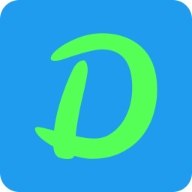
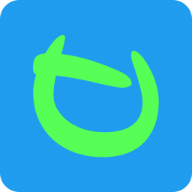
prueba

Changed region(s): [[0.1562, 0.1562, 0.8438, 0.8438]]

diff --git a/quien_soy.html b/quien_soy.html
@@ -7,7 +7,7 @@
     <meta name="viewport" content="width=device-width, user-scalable=no, initial-scale=1.0, maximum-scale=1.0, minimum-scale=1.0">
     <meta name="apple-mobile-web-app-capable" content="yes">
     <!-- favicon -->
-    <link rel="shortcut icon" type="image/x-icon" href="favicon.ico">
+    <link rel="shortcut icon" type="image/x-icon" href="img/android-chrome-512x512.png">
     <link rel="canonical" href="/">
     <title>
       Daniel Iván Romero Méndez 
@@ -146,10 +146,10 @@
               <p>Respeto</p>
             </div>
             <div class="valor_corp visible-md visible-lg hidden-xs hidden-sm">
-              <p>Soy una persona que considera el respeto fundamental y que sin él cualquier contacto entre personas es inservible. Sin respeto no puede haber una simbiosis entre dos partes saludable y provechosa, el resultado de cualquier manera es desfavorable.</p>
+              <p>Soy una persona que considera el respeto fundamental y que sin él cualquier contacto entre personas es inservible.</p>
             </div>
             <div class="valor_corp1 visible-xs visible-sm hidden-md hidden-lg">
-              <p>Soy una persona que considera el respeto fundamental y que sin él cualquier contacto entre personas es inservible. Sin respeto no puede haber una simbiosis entre dos partes saludable y provechosa, el resultado de cualquier manera es desfavorable.</p>
+              <p>Soy una persona que considera el respeto fundamental y que sin él cualquier contacto entre personas es inservible.</p>
             </div>
             <div class="titulo_valor_corp visible-md visible-lg hidden-xs hidden-sm">
               <p>Solidaridad</p>

diff --git a/ingenieria_de_sistemas.html b/ingenieria_de_sistemas.html
@@ -7,7 +7,7 @@
     <meta name="viewport" content="width=device-width, user-scalable=no, initial-scale=1.0, maximum-scale=1.0, minimum-scale=1.0">
     <meta name="apple-mobile-web-app-capable" content="yes">
     <!-- favicon -->
-    <link rel="shortcut icon" type="image/x-icon" href="favicon.ico">
+    <link rel="shortcut icon" type="image/x-icon" href="img/android-chrome-512x512.png">
     <link rel="canonical" href="/">
     <title>
       Daniel Iván Romero Méndez 

diff --git a/ingenieria_industrial.html b/ingenieria_industrial.html
@@ -7,7 +7,7 @@
     <meta name="viewport" content="width=device-width, user-scalable=no, initial-scale=1.0, maximum-scale=1.0, minimum-scale=1.0">
     <meta name="apple-mobile-web-app-capable" content="yes">
     <!-- favicon -->
-    <link rel="shortcut icon" type="image/x-icon" href="favicon.ico">
+    <link rel="shortcut icon" type="image/x-icon" href="img/android-chrome-512x512.png">
     <link rel="canonical" href="/">
     <title>
       Daniel Iván Romero Méndez 

diff --git a/proyectos.html b/proyectos.html
@@ -7,7 +7,7 @@
     <meta name="viewport" content="width=device-width, user-scalable=no, initial-scale=1.0, maximum-scale=1.0, minimum-scale=1.0">
     <meta name="apple-mobile-web-app-capable" content="yes">
     <!-- favicon -->
-    <link rel="shortcut icon" type="image/x-icon" href="favicon.ico">
+    <link rel="shortcut icon" type="image/x-icon" href="img/android-chrome-512x512.png">
     <link rel="canonical" href="/">
     <title>
       Daniel Iván Romero Méndez	

diff --git a/index.html b/index.html
@@ -8,7 +8,7 @@
 	<meta name="viewport" content="width=device-width, user-scalable=no, initial-scale=1.0, maximum-scale=1.0, minimum-scale=1.0">
 	<meta name="apple-mobile-web-app-capable" content="yes">
 	<!-- favicon -->
-	<link rel="shortcut icon" type="image/x-icon" href="favicon.ico">
+	<link rel="shortcut icon" type="image/x-icon" href="img/android-chrome-512x512.png">
 	<link rel="canonical" href="/">
 	<title>
 		Daniel Iván Romero Méndez

diff --git a/README.md b/README.md
@@ -13,7 +13,7 @@ Node js, javascript, lately up to date web browser
 ## Deployment
 
 Is nesessary to have http-server installed on your machine to deploy this website
-[Website](https://diromero1.github.io/CoverLetter/quien_soy.html)
+[Website](https://diromero1.github.io/CoverLetter/index.html)
 
 ## Built With
 
@@ -28,7 +28,7 @@ Is nesessary to have http-server installed on your machine to deploy this websit
 
 ## Screenshot
 
-![screenshot](img/screenshot)
+![screenshot](https://diromero1.github.io/CoverLetter/quien_soy.html)
 
 ## Authors
 
